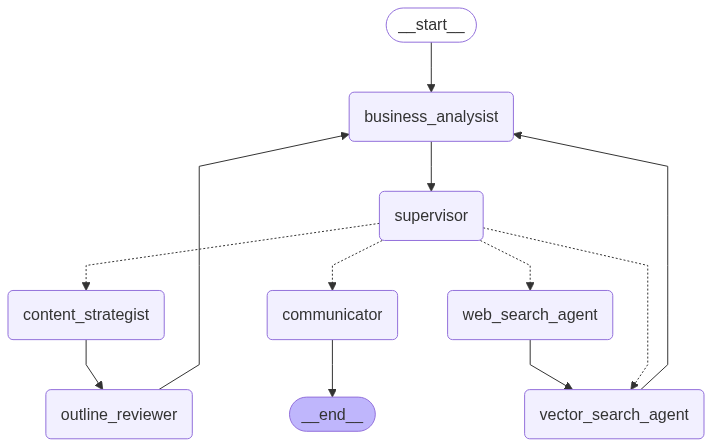
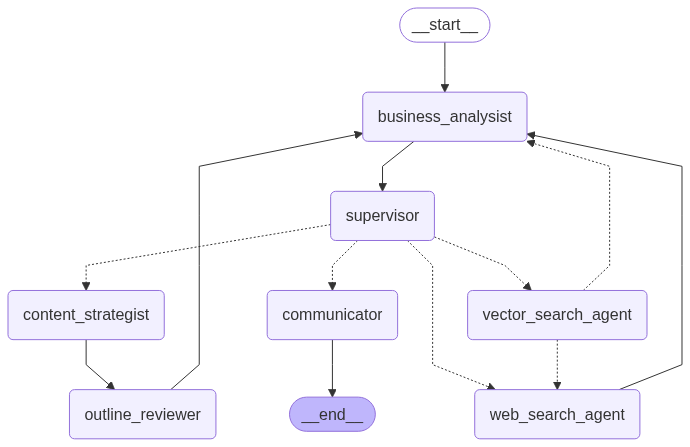
그래프 구조 변화를 통해 웹 서치 에이전트 호출을 하도록 수정했으나 큰 효과를 보지 못함

diff --git a/chap15/outline-generation-multi-agent-chatbot/agents/vector_search_agent.py b/chap15/outline-generation-multi-agent-chatbot/agents/vector_search_agent.py
@@ -5,7 +5,7 @@ from langchain_core.messages import AIMessage
 from tools.vector_search import retrieve
 
 from . import llm, agent_log, root_path
-from models import State, Task
+from models import State
 from file_utils import get_outline
 from datetime import datetime
 
@@ -79,6 +79,13 @@ def vector_search_agent(state: State):
             unique_page_contents.add(doc.page_content)
     references["docs"]  = unique_docs
 
+    # 정보 충분성 평가 (간단한 버전)
+    need_web_search = evaluate_information_sufficiency(references)
+
+    # 벡터 검색 task 완료 표시
+    task_history[-1].done = True
+    task_history[-1].done_at = datetime.now().strftime('%Y-%m-%d %H:%M:%S')
+
     # 쿼리와 청크 문서를 개발자가 확인할 수 있도록 터미널에 출력
     print('Queries:-------------------')
     queries = references["queries"]
@@ -90,17 +97,22 @@ def vector_search_agent(state: State):
         print(doc.page_content[:100])
         print('-----------------------')
 
-    task_history[-1].done = True
-    task_history[-1].done_at = datetime.now().strftime('%Y-%m-%d %H:%M:%S')
+    # 정보 충분성에 따라 다른 메시지 생성
+    if need_web_search:
+        msg_str = f"[VECTOR SEARCH AGENT] 다음 질문에 대한 검색 완료: {queries}\n===문서 부족=== ({len(references['docs'])}개) - 웹 검색 필요"
+        ai_recommendation = "문서가 부족하므로 web_search_agent를 통해 추가 정보를 수집하라."
+    else:
+        msg_str = f"[VECTOR SEARCH AGENT] 다음 질문에 대한 검색 완료: {queries}\n===충분한 정보 확보됨=== ({len(references['docs'])}개)"
+        ai_recommendation = "현재 참고자료가 충분하므로 content_strategist로 목차 작성을 진행하라."    
 
     # 벡터 검색 에이전트의 작업 후기를 생성해 대화 기록에 추가
-    msg_str = f"[VECTOR SEARCH AGENT] 다음 질문에 대한 검색 완료: {queries}"
+    # msg_str = f"[VECTOR SEARCH AGENT] 다음 질문에 대한 검색 완료: {queries}"
     message = AIMessage(msg_str)
     print(msg_str)
 
     messages.append(message)
-    # business_analysist로 전달되는 ai_recommendation 정의
-    ai_recommendation = "현재 참고자료(references)가 목차(outoine)를 개선하는 데 충분한지 확인하라. 충분하다면 content_strategist로 목차 작성을 하라. 그렇지 않다면 supervisor에게 web_search_agent를 호출하라고 하라"
+    # # business_analysist로 전달되는 ai_recommendation 정의
+    # ai_recommendation = "현재 참고자료(references)가 목차(outoine)를 개선하는 데 충분한지 확인하라. 충분하다면 content_strategist로 목차 작성을 하라. 그렇지 않다면 supervisor에게 web_search_agent를 호출하라고 하라"
 
     # 작업 결과를 상태에 반영
     return {
@@ -109,3 +121,21 @@ def vector_search_agent(state: State):
         "references": references,
         "ai_recommendation": ai_recommendation,
     }
+
+def evaluate_information_sufficiency(references):
+    """정보 충분성을 평가하는 함수 - 간단한 버전"""
+    docs = references["docs"]
+    
+    # 문서가 5개 미만이면 웹 검색 필요
+    need_web_search = len(docs) < 5
+    
+    return need_web_search
+
+def vector_search_router(state: State):
+    """벡터 검색 후 다음 단계를 결정하는 라우터"""
+    need_web_search = state.get("need_web_search", False)
+    
+    if need_web_search:
+        return "web_search_agent"
+    else:
+        return "business_analysist"

diff --git a/chap15/outline-generation-multi-agent-chatbot/main.py b/chap15/outline-generation-multi-agent-chatbot/main.py
@@ -6,6 +6,7 @@ from langchain_core.messages import HumanMessage
 from models import State, state_init
 from agents import agent_nodes
 from agents.supervisor import supervisor_router
+from agents.vector_search_agent import vector_search_router
 from file_utils import save_state, clear_outline_and_state
 
 # 상태 그래프 정의(랭그래프가 models/state의 State 클래스가 자신이 관리할 상태임을 인식)
@@ -30,10 +31,21 @@ graph_builder.add_conditional_edges(
         "web_search_agent": "web_search_agent",
     }
 )
+# 핵심 개선사항 1: vector_search_agent에서 조건부 분기
+graph_builder.add_conditional_edges(
+    "vector_search_agent",
+    vector_search_router,  # 새로운 라우터 함수
+    {
+        "business_analysist": "business_analysist",  # 충분한 정보가 있을 때
+        "web_search_agent": "web_search_agent",      # 정보가 부족할 때
+    }
+)
+
+# 핵심 개선사항 2: web_search_agent에서 직접 business_analysist로
+graph_builder.add_edge("web_search_agent", "business_analysist")
+
 graph_builder.add_edge("content_strategist", "outline_reviewer")
 graph_builder.add_edge("outline_reviewer", "business_analysist")
-graph_builder.add_edge("web_search_agent", "vector_search_agent")
-graph_builder.add_edge("vector_search_agent", "business_analysist")
 graph_builder.add_edge("communicator", END)
 
 graph = graph_builder.compile()

diff --git a/chap15/outline-generation-multi-agent-chatbot/agents/outline_reviewer.py b/chap15/outline-generation-multi-agent-chatbot/agents/outline_reviewer.py
@@ -19,7 +19,7 @@ def outline_reviewer(state: State):
         - 근거에 기반하지 않는 내용이 있는지 여부
         - 주어진 참고자료(references)를 충분히 활용했는지 여부
         - example.com 같은 더미 URL이 있는지 여부:
-        - 실제 페이지 URL이 아닌 대표 URL로 되어 있는 경우 삭제 해야 함: 어떤 URL이 삭제되어야 하는지 명시하라.
+        - 실제 페이지 URL이 아닌 대표 URL로 되어 있는 경우 삭제 해야 함: 어떤 URL이 삭제되어야 하는지 명시하라. 명시한 URL과 그 자료는 우선적으로 폐기하라.
         - 기타 리뷰 사항
 
         그 분석 결과를 설명하고, 다음에 어떤 작업을 하면 좋을지 제안하라.
